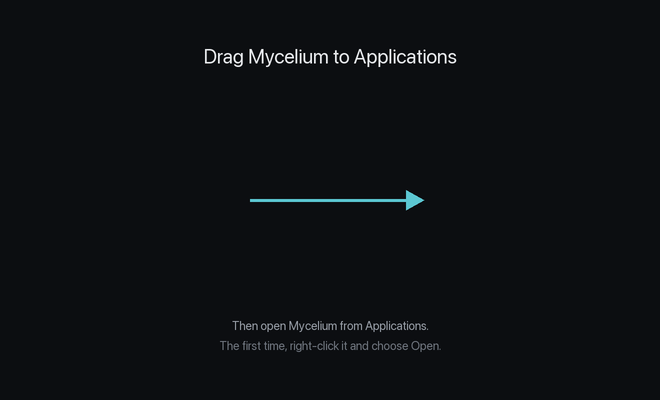
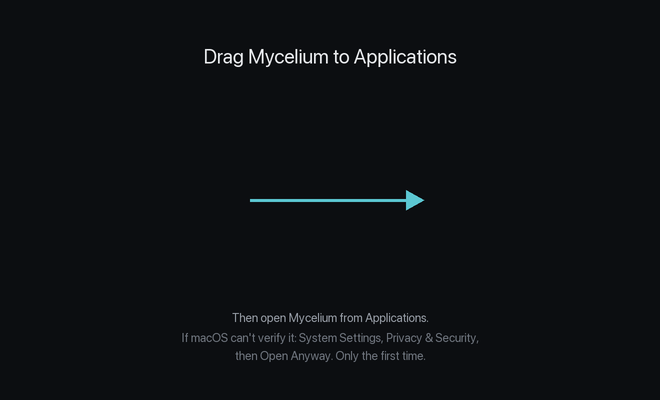
Sign the whole Mac app and lay out its disk image without Finder
A downloaded copy was 'damaged' to macOS: programs added to the bundle after
the build left its signature describing a bundle that no longer existed.
scripts/package-mac.sh signs every program inside, innermost first, then the
app, and verifies it; it makes the disk image with dmgbuild, which writes the
drag-to-Applications layout itself instead of scripting Finder (which had
left the CI image without its background). First-open instructions now say
System Settings, Privacy & Security, Open Anyway, which is what current
macOS asks for. v3.0.6 was tagged but never published; this ships as
v3.0.7.

Changed region(s): [[0.2727, 0.78, 0.7273, 0.9]]

diff --git a/docs/reference.html b/docs/reference.html
@@ -1870,7 +1870,7 @@ EOF
       <h2 id="desktop-install">Install</h2>
       <ol class="steps">
         <li>Open the download and drag <strong>Mycelium</strong> into <strong>Applications</strong>.</li>
-        <li>Open Mycelium from Applications. The app isn&#x27;t signed yet, so the first time macOS stops it: right-click the app, choose <strong>Open</strong>, then <strong>Open</strong> again.</li>
+        <li>Open Mycelium from Applications. The app isn&#x27;t signed by Apple yet, so the first time macOS says it can&#x27;t verify it. Open <strong>System Settings → Privacy &amp; Security</strong>, scroll to the message about Mycelium, and choose <strong>Open Anyway</strong>. You only do this once.</li>
         <li>Choose how this Mac takes part: - <strong>Run a hub on this Mac</strong> keeps your rooms, memory and agents here. Pick this to try Mycelium on your own. - <strong>Connect to a hub</strong> joins rooms someone else runs. Paste the hub&#x27;s address, or open an invite link a teammate sent you.</li>
         <li>Pick the folder your agents may work in, and press <strong>Start</strong>.</li>
       </ol>

diff --git a/docs/search-index.js b/docs/search-index.js
@@ -2028,7 +2028,7 @@ window.MYCELIUM_SEARCH_INDEX = [
     "u": "reference.html#desktop-install",
     "t": "Install",
     "s": "Guides › The Mac App",
-    "x": "Open the download and drag Mycelium into Applications. Open Mycelium from Applications. The app isn't signed yet, so the first time macOS stops it: right-click the app, choose Open, then Open again. Choose how this Mac takes part: - Run a hub on this Mac keeps your rooms, memory and agents here. Pick this to try Mycelium on your own. - Connect to a hub joins rooms someone else runs. Paste the hub's address, or open a",
+    "x": "Open the download and drag Mycelium into Applications. Open Mycelium from Applications. The app isn't signed by Apple yet, so the first time macOS says it can't verify it. Open System Settings → Privacy & Security, scroll to the message about Mycelium, and choose Open Anyway. You only do this once. Choose how this Mac takes part: - Run a hub on this Mac keeps your rooms, memory and agents here. Pick this to try Mycel",
     "p": "Reference"
   },
   {

diff --git a/mycelium-desktop/scripts/dmg-settings.py b/mycelium-desktop/scripts/dmg-settings.py
@@ -1,0 +1,34 @@
+# SPDX-License-Identifier: Apache-2.0
+# Copyright 2026 Mycelium Contributors
+#
+# The disk image's layout, for dmgbuild: the app on the left, Applications on
+# the right, and the background that says to drag one onto the other.
+# dmgbuild writes Finder's layout file itself, so this needs no Finder
+# automation (which fails on CI runners and asks permission locally).
+#
+# Run by scripts/package-mac.sh with -D app=<Mycelium.app> -D background=<png>.
+
+import os.path
+
+app = defines["app"]  # noqa: F821 - dmgbuild provides `defines`
+app_name = os.path.basename(app)
+
+format = "UDZO"
+filesystem = "HFS+"
+files = [app]
+symlinks = {"Applications": "/Applications"}
+background = defines["background"]  # noqa: F821
+
+window_rect = ((200, 120), (660, 400))
+default_view = "icon-view"
+show_status_bar = False
+show_tab_view = False
+show_toolbar = False
+show_pathbar = False
+show_sidebar = False
+icon_size = 96
+text_size = 13
+icon_locations = {
+    app_name: (180, 200),
+    "Applications": (480, 200),
+}

diff --git a/mycelium-desktop/README.md b/mycelium-desktop/README.md
@@ -57,14 +57,18 @@ installed. `scripts/stage-sidecars.sh` stages it all, pinned:
 ```bash
 npm run sidecars                  # all of it, several minutes
 bash scripts/stage-sidecars.sh ui # or just the steps you changed
-npx tauri build --bundles app,dmg --config src-tauri/tauri.bundle.conf.json
+npx tauri build --bundles app --config src-tauri/tauri.bundle.conf.json
+bash scripts/package-mac.sh       # sign it, then make the disk image
 ```
 
-The disk image lands in `src-tauri/target/release/bundle/dmg/`. Building it
-arranges the Finder window with AppleScript, so the first local build asks
-whether your terminal may control Finder; say yes, or the last step fails.
-The release workflow builds the same thing and attaches it to each release
-as `Mycelium-macos-arm64.dmg`.
+`package-mac.sh` signs every program inside the app and then the app, and
+makes `src-tauri/target/release/bundle/dmg/Mycelium-macos-arm64.dmg` with
+`dmgbuild` (layout in `scripts/dmg-settings.py`). Both matter for a
+downloaded copy: an app whose bundled programs were added after it was
+signed is "damaged" to macOS, and Tauri's own disk image lays out its window
+by scripting Finder, which fails on CI. The signature is ad-hoc until
+`SIGN_IDENTITY` names a Developer ID. The release workflow runs the same
+steps and attaches the image to each release.
 
 `MYCELIUM_BIN=/path/to/mycelium` stages a `mycelium` binary you already have
 instead of building one. `npx tauri build --bundles app` without the bundle

diff --git a/CHANGELOG.md b/CHANGELOG.md
@@ -10,7 +10,15 @@ Entries for each release are auto-generated by the `/release` skill from
 maintained — commits land on `main` and get grouped into the next release's
 entry when the tag is cut.
 
-## [3.0.6] - 2026-09-28
+## [3.0.7] - 2026-09-28
+
+v3.0.6 was tagged but never published: its Mac app wouldn't open on a
+downloaded copy. This is that release, with the fix.
+
+### Fixed
+- **The Mac app opens after downloading**: the whole app is signed, so macOS no longer calls it damaged, and the disk image shows its drag-to-Applications layout
+
+## [3.0.6] - 2026-09-28 (not published)
 
 ### Added
 - **Mycelium for Mac**: a desktop app with the hub, UI, SLIM node, herdr, Pi and the search model inside, so a Mac needs no Docker. Run a hub on your Mac or join one; a menu bar, an agents terminal, a health check and invite links. Download `Mycelium-macos-arm64.dmg` from the release ([#1003](https://github.com/mycelium-io/mycelium/pull/1003))

diff --git a/mycelium-cli/src/mycelium/docs/guides/desktop.md b/mycelium-cli/src/mycelium/docs/guides/desktop.md
@@ -10,9 +10,10 @@ your coding agents for you when you ask.
 ## Install
 
 1. Open the download and drag **Mycelium** into **Applications**.
-2. Open Mycelium from Applications. The app isn't signed yet, so the first
-   time macOS stops it: right-click the app, choose **Open**, then **Open**
-   again.
+2. Open Mycelium from Applications. The app isn't signed by Apple yet, so
+   the first time macOS says it can't verify it. Open **System Settings →
+   Privacy & Security**, scroll to the message about Mycelium, and choose
+   **Open Anyway**. You only do this once.
 3. Choose how this Mac takes part:
    - **Run a hub on this Mac** keeps your rooms, memory and agents here.
      Pick this to try Mycelium on your own.

diff --git a/README.md b/README.md
@@ -98,7 +98,8 @@ There are two ways to install Mycelium.
 (Apple silicon, macOS 13+). Drag it into Applications and open it. It runs a
 hub on your Mac, or joins your team's, with no Docker and no terminal, and
 starts your coding agents in [herdr](https://herdr.dev) when you ask. The app
-isn't signed yet: the first time, right-click it and choose **Open**.
+isn't signed by Apple yet: the first time, macOS says it can't verify it.
+Open **System Settings → Privacy & Security** and choose **Open Anyway**.
 
 <p align="center">
   <img src="docs/desktop-onboarding.png" alt="Mycelium for Mac, first screen" width="640">
